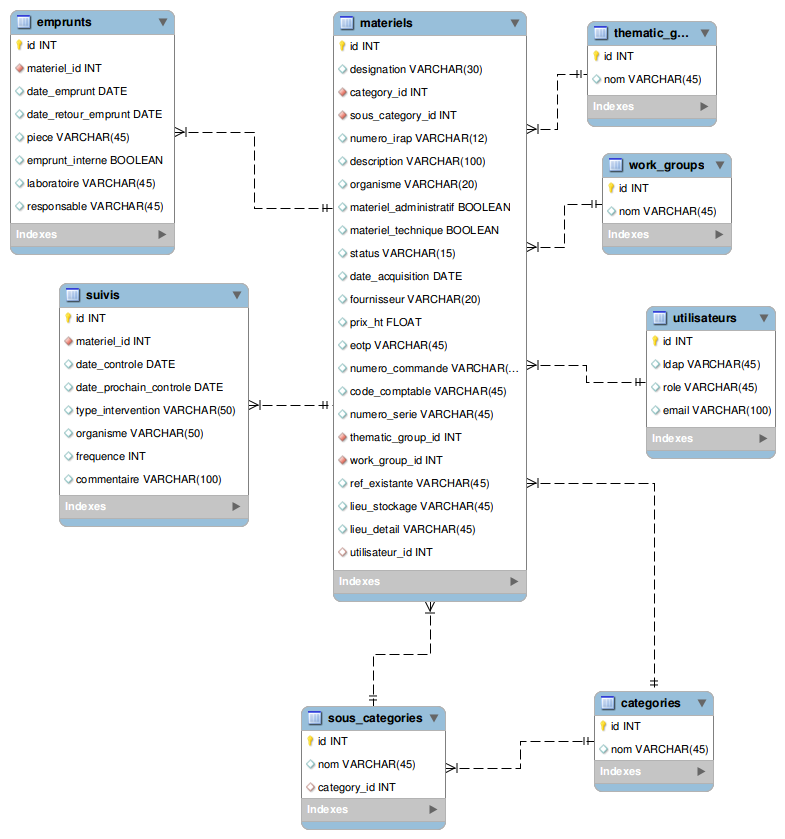
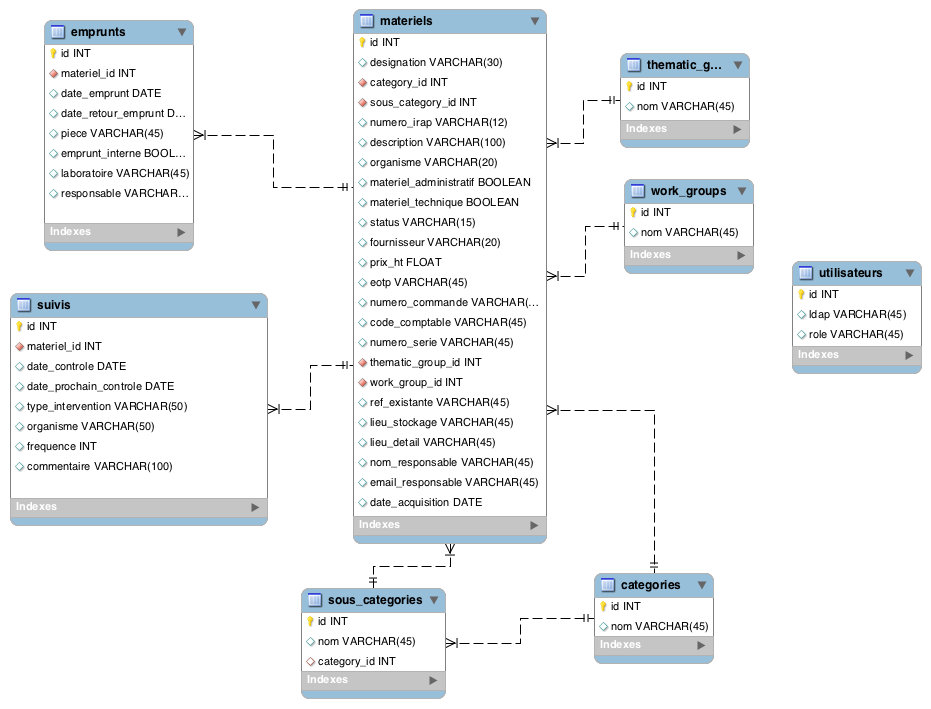
Revert to old database for material/user management. Fixed #73

diff --git a/cakephp/app/Controller/MaterielsController.php b/cakephp/app/Controller/MaterielsController.php
@@ -7,10 +7,8 @@ class MaterielsController extends AppController {
 	public function find() {
 		$this->loadModel('Category');
 		$this->loadModel('SousCategory');
-		$this->loadModel('Utilisateur');
 		$this->set('s_categories', $this->Category->find('list'));
 		$this->set('s_sous_categories', $this->SousCategory->find('list'));
-		$this->set('s_utilisateurs', $this->Utilisateur->find('list'));
 		if (isset($this->data['Materiel'])) {
 			$all = $this->data['Materiel']['s_all'];
 			$this->set('results', $this->Materiel->find('all', array('conditions' => array(
@@ -19,7 +17,7 @@ class MaterielsController extends AppController {
 				'Materiel.numero_irap LIKE' => '%'.$this->data['Materiel']['s_numero_irap'].'%',
 				'Materiel.category_id LIKE' => '%'.$this->data['Materiel']['s_category_id'].'%',
 				'Materiel.sous_category_id LIKE' => '%'.$this->data['Materiel']['s_sous_category_id'].'%',
-				'Materiel.utilisateur_id LIKE' => '%'.$this->data['Materiel']['s_utilisateur_id'].'%',
+				'Materiel.nom_responsable LIKE' => '%'.$this->data['Materiel']['s_responsable'].'%',
 				'Materiel.status LIKE' => '%'.$this->data['Materiel']['s_status'].'%',
 				//Pour tous les champs:
 				array('OR' => array (
@@ -29,6 +27,8 @@ class MaterielsController extends AppController {
 					'Materiel.organisme LIKE' => '%'.$all.'%',
 					'Materiel.fournisseur LIKE' => '%'.$all.'%',
 					'Materiel.numero_commande LIKE' => '%'.$all.'%',
+					'Materiel.nom_responsable LIKE' => '%'.$all.'%',
+					'Materiel.email_responsable LIKE' => '%'.$all.'%',
 					'Materiel.code_comptable LIKE' => '%'.$all.'%',
 					'Materiel.numero_serie LIKE' => '%'.$all.'%',
 					'Materiel.lieu_detail LIKE' => '%'.$all.'%'

diff --git a/cakephp/app/Model/Materiel.php b/cakephp/app/Model/Materiel.php
@@ -5,7 +5,7 @@ class Materiel extends AppModel {
 	var $virtualFields = array('full_storage' => 'CONCAT(lieu_stockage, "-", lieu_detail)');
 	public $displayField = 'designation';
 	
-	public $belongsTo = array('Category', 'SousCategory', 'ThematicGroup', 'WorkGroup', 'Utilisateur');
+	public $belongsTo = array('Category', 'SousCategory', 'ThematicGroup', 'WorkGroup');
 	public $hasMany = array('Suivi', 'Emprunt');
 			
 	var $validate = array(

diff --git a/cakephp/app/Model/Utilisateur.php b/cakephp/app/Model/Utilisateur.php
@@ -3,8 +3,6 @@
 class Utilisateur extends AppModel {
 	var $name = 'Utilisateur';
 	var $displayField = 'ldap';
-
-	var $hasMany = 'Materiel';
 	
 	private $acceptedRoles = array ('Apprenti', 'Responsable', 'Administrateur', 'Super Administrateur');
 	
